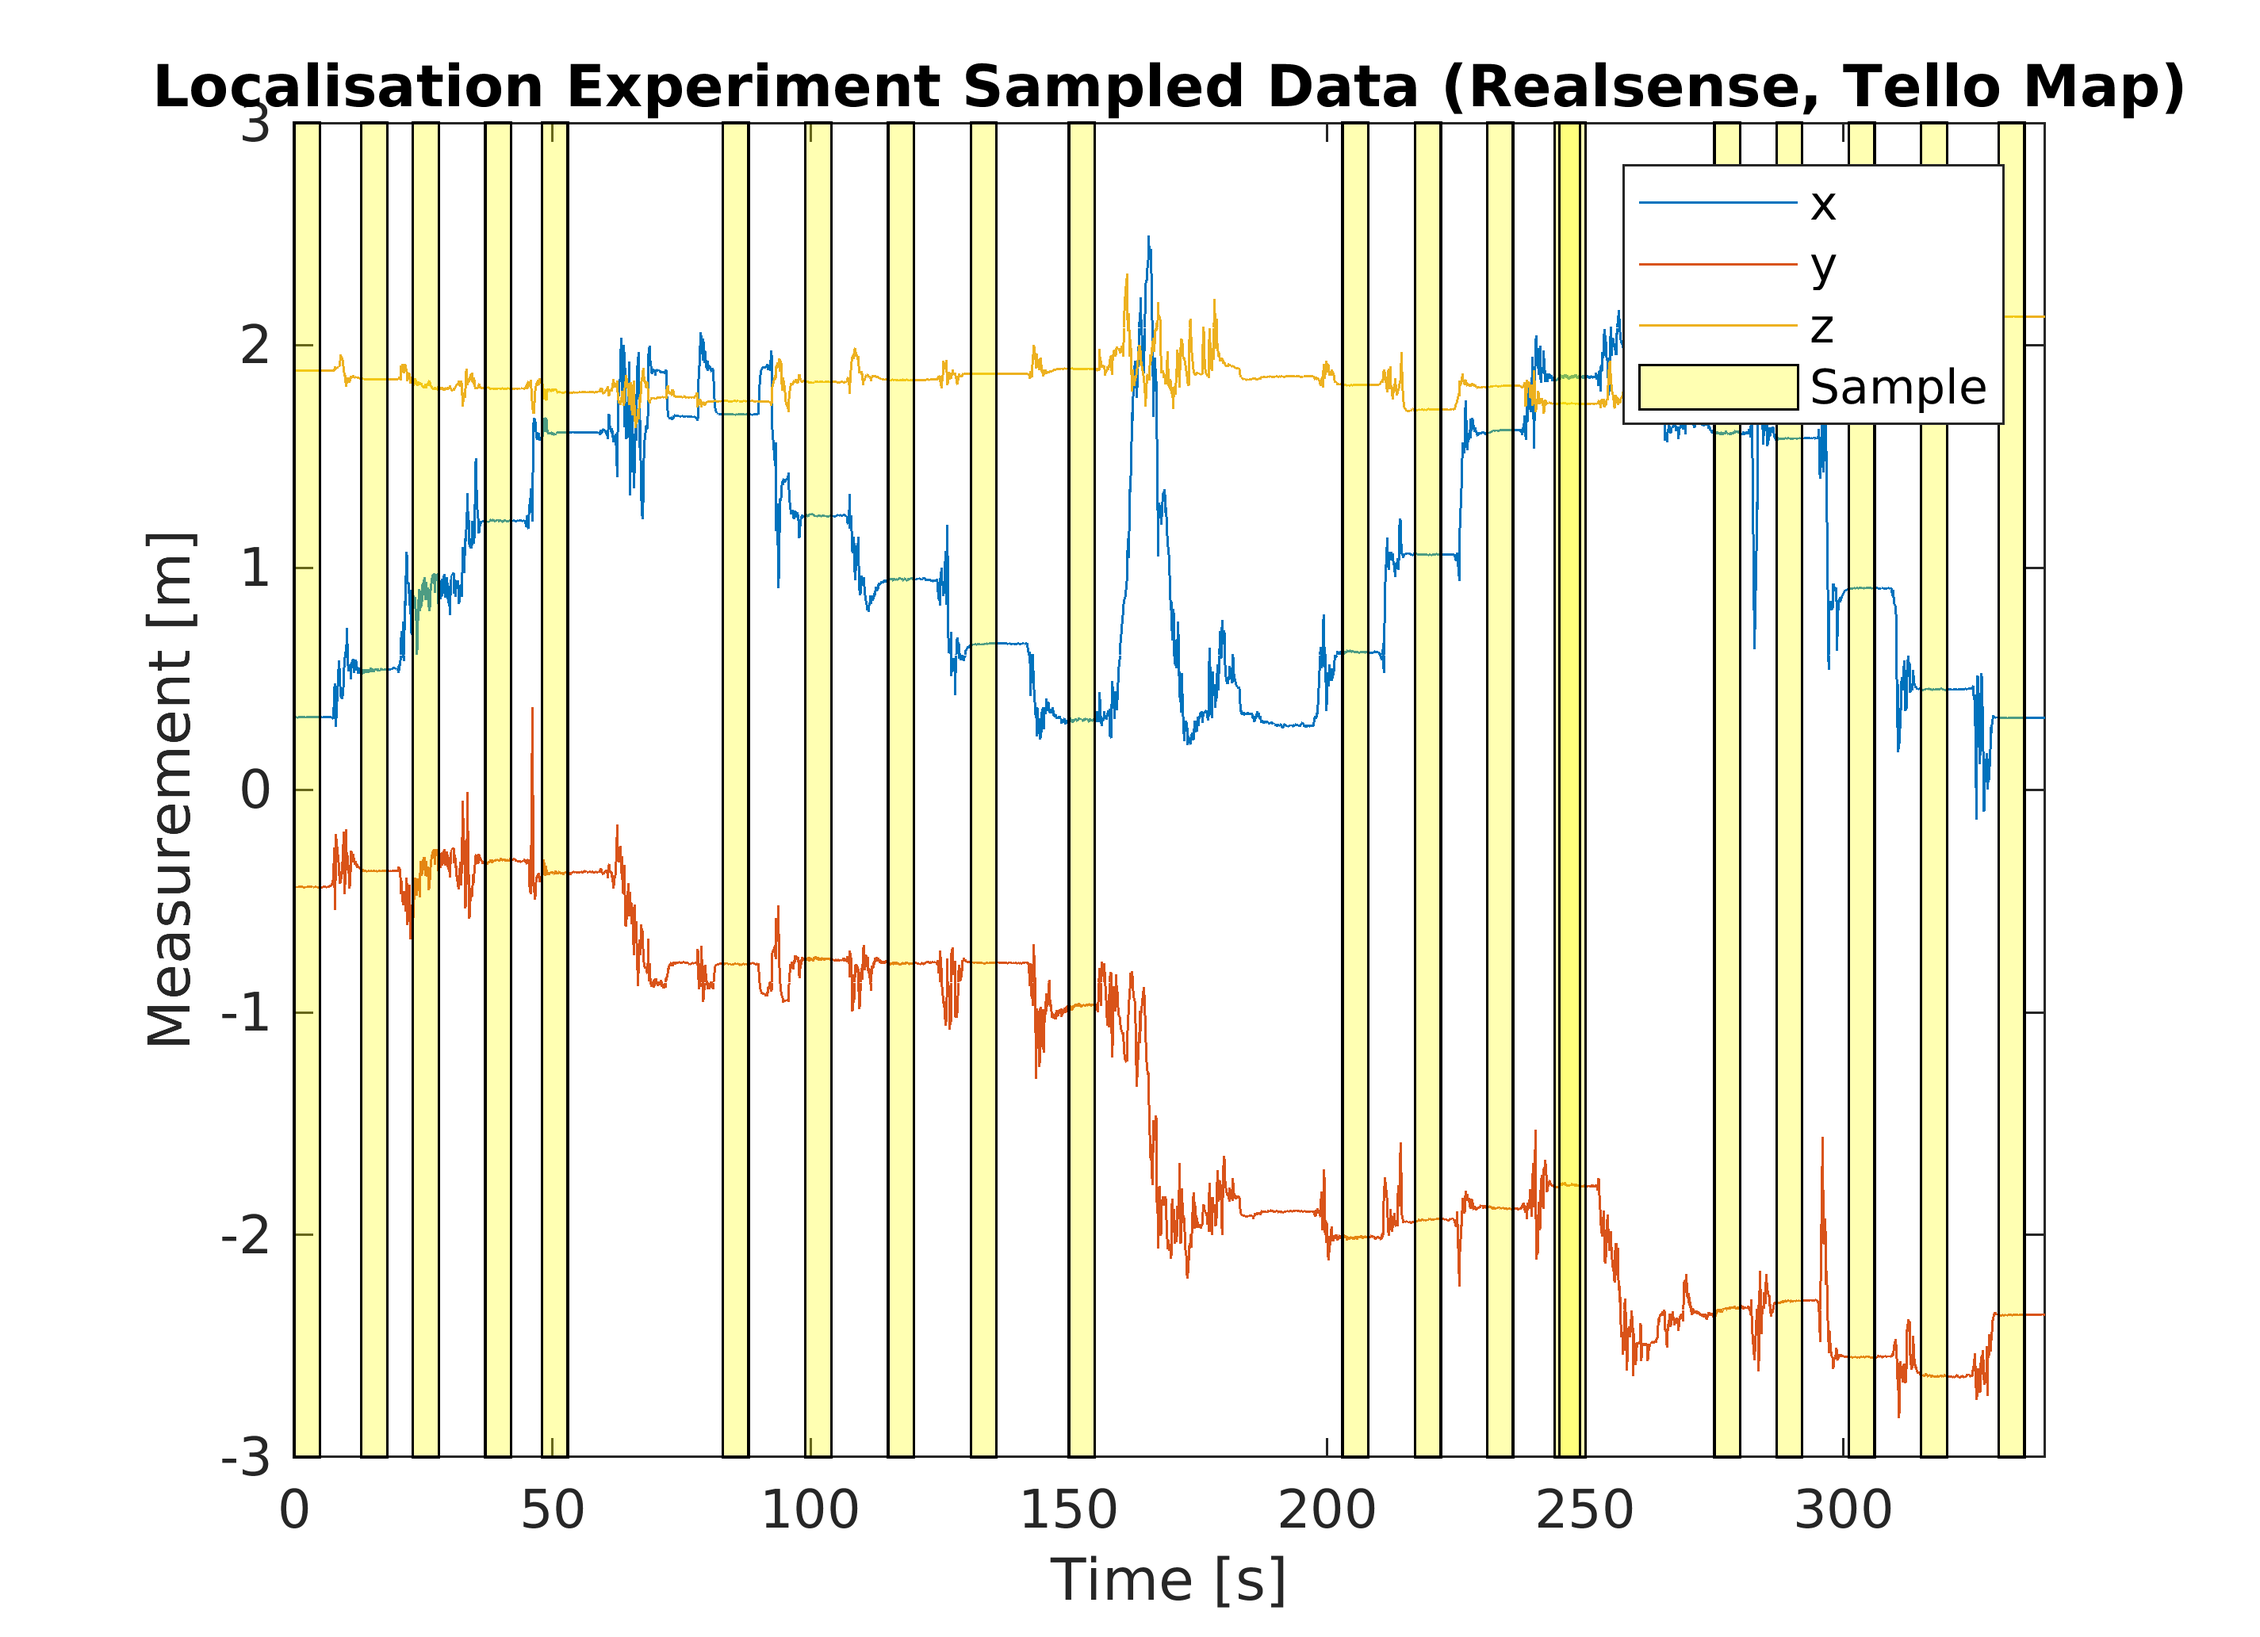
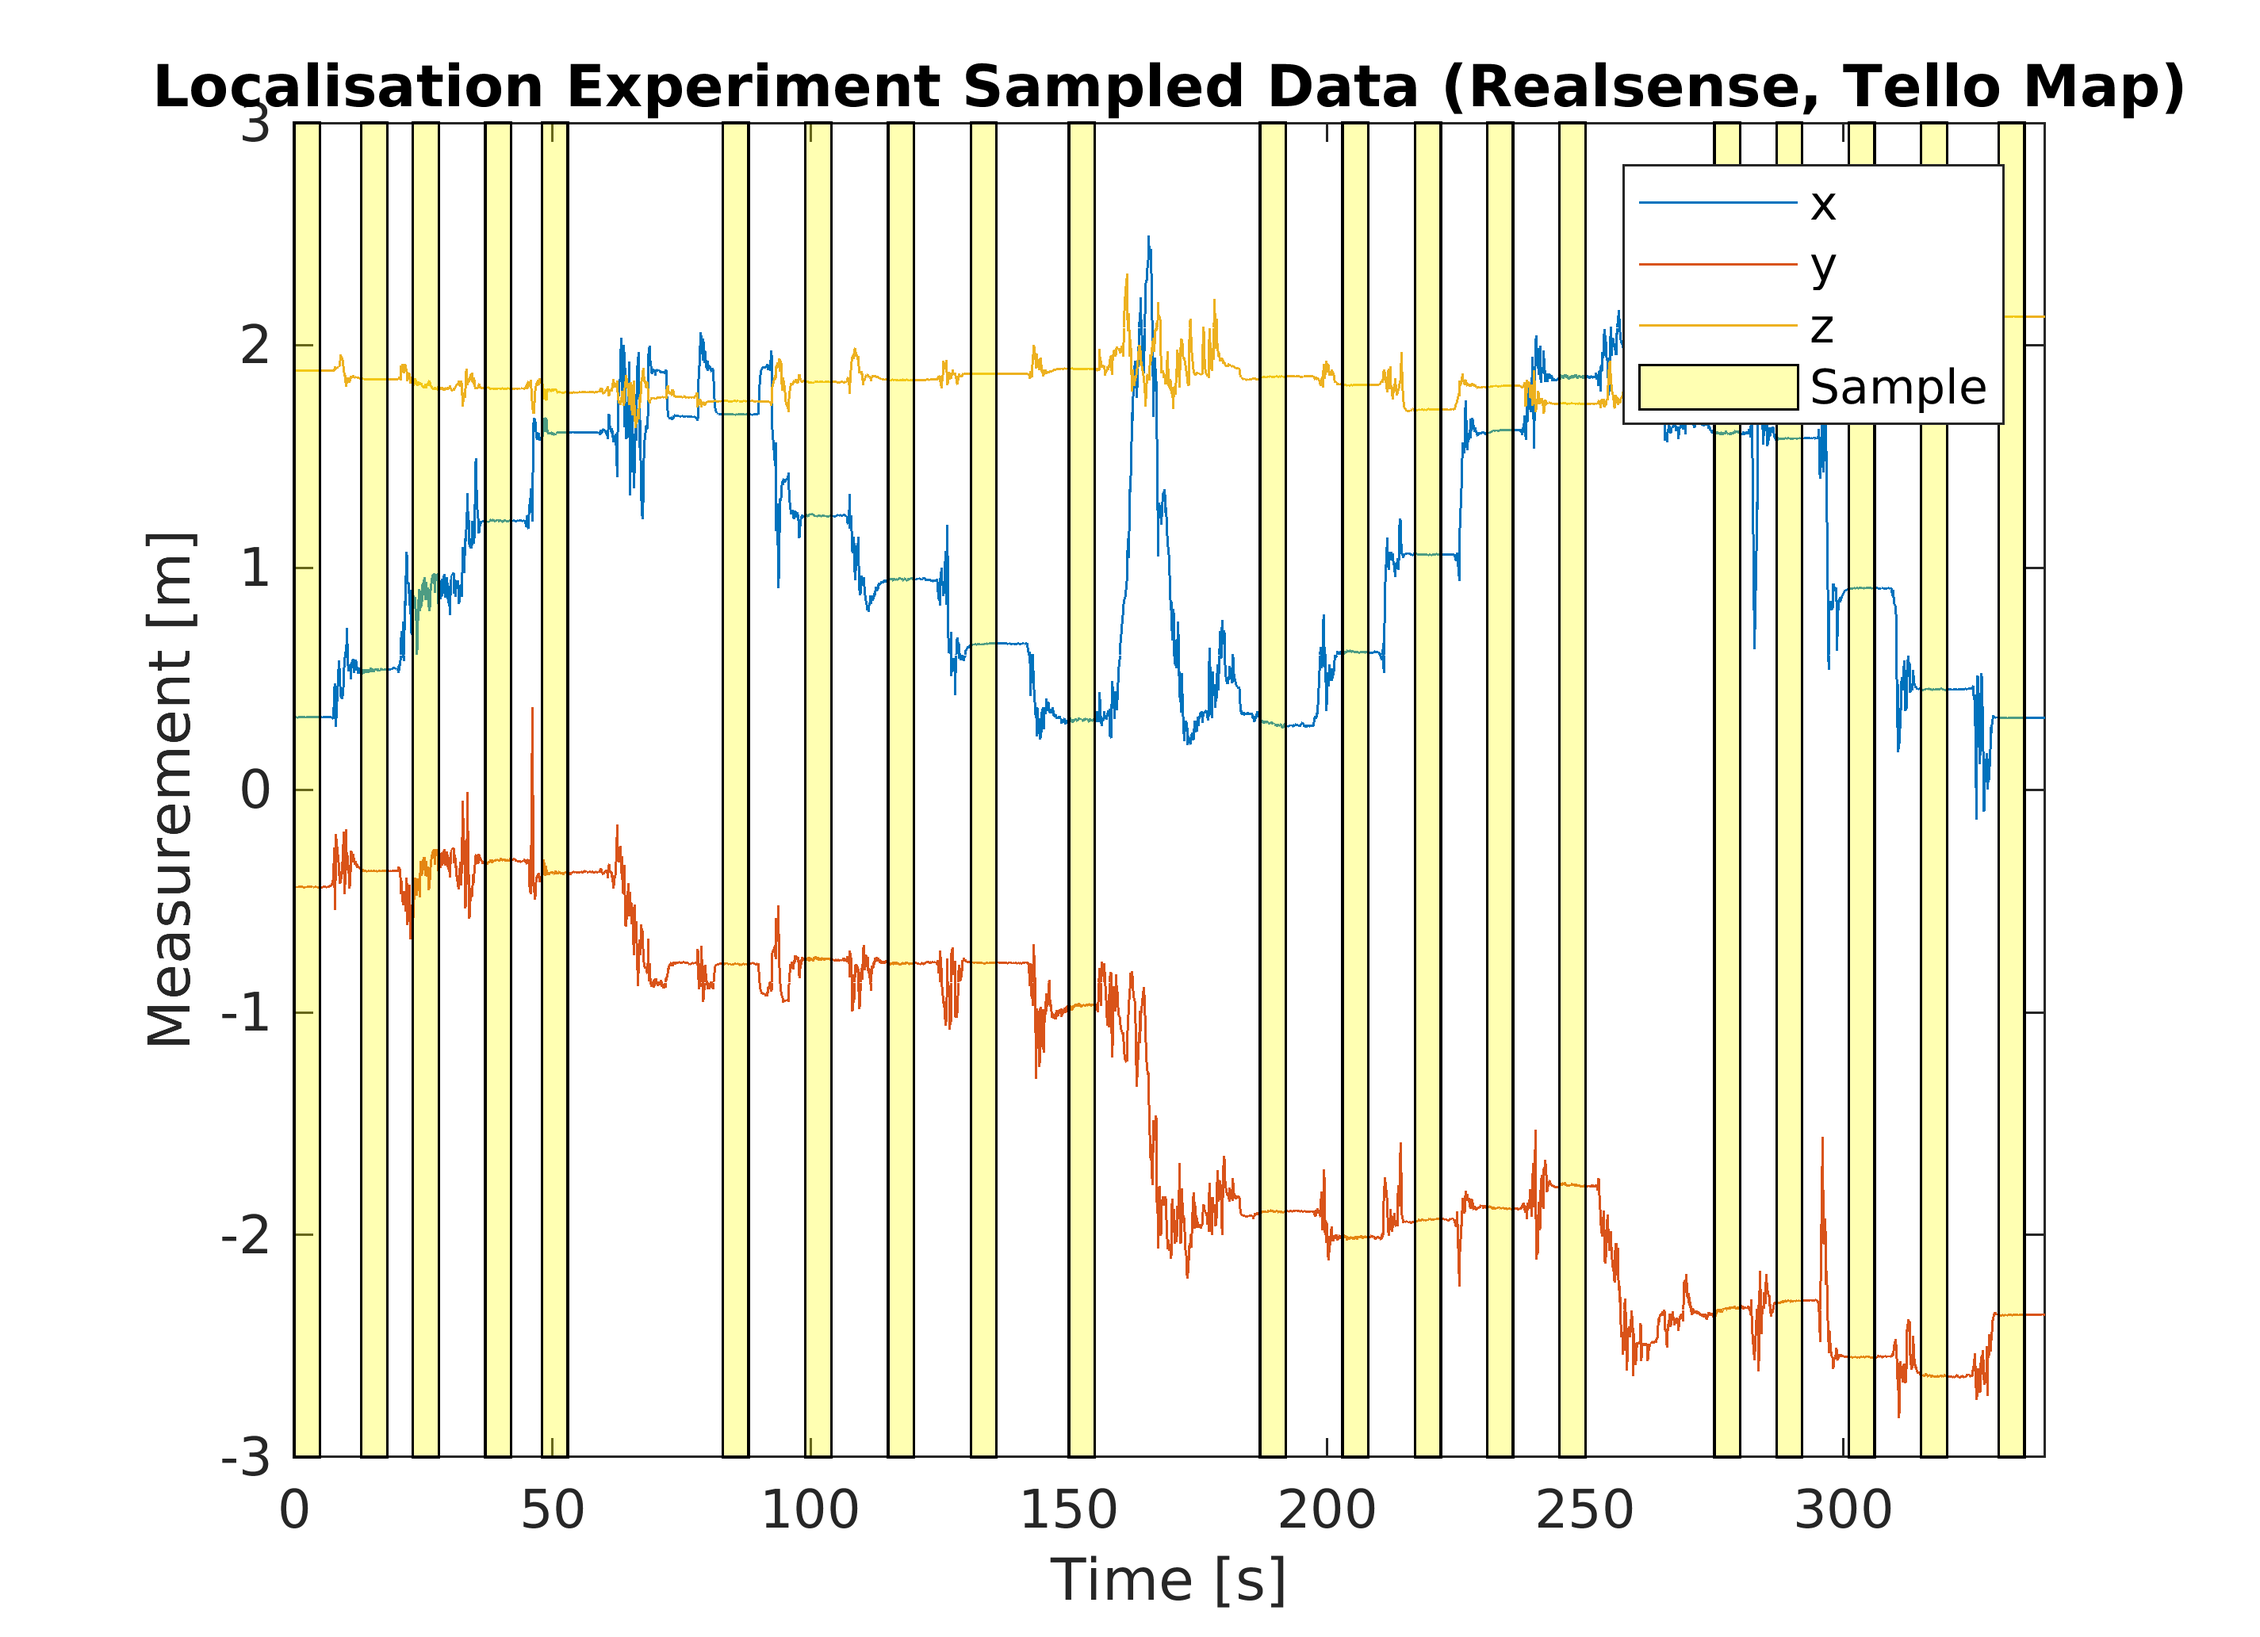
current version

Changed region(s): [[0.5309, 0.062, 0.5933, 0.8988], [0.687, 0.062, 0.7182, 0.8988]]

diff --git a/analyse_structure_extraction.m b/analyse_structure_extraction.m
@@ -1,0 +1,54 @@
+data_first = [
+    [ 25 0 0 ]
+    [ 24 0 1 ]
+    [ 15 0 10]
+    [ 25 0 0 ]
+    [ 25 0 0 ]
+    [ 23 2 0 ]
+    [ 25 0 0 ]
+    [ 24 0 1 ]
+    [ 25 0 0 ]
+    [ 25 0 0 ]
+];
+
+data_second = [
+    [ [22,0,3]  [4,0,0] ]
+    [ [23,0,2]  [4,0,0] ]
+    [ [18,0,7]  [3,0,1] ]
+    [ [14,0,11] [4,0,0] ]
+    [ [23,1,1]  [4,0,0] ]
+    [ [23,0,2]  [4,0,0] ]
+    [ [22,1,2]  [4,0,0] ]
+    [ [21,1,3]  [4,0,0] ]
+    [ [23,0,2]  [4,0,0] ]
+    [ [21,0,4]  [4,0,0] ]
+];
+
+data_third = [ 
+    [ [23,0,2] [4,0,0] [1,0,0] ]
+    [ [21,0,4] [2,0,2] [1,0,0] ]
+    [ [21,0,4] [4,0,0] [1,0,0] ]
+    [ [22,0,3] [2,0,2] [1,0,0] ]
+    [ [22,0,3] [3,0,1] [1,0,0]]
+    [ [21,0,4] [3,0,1] [0,1,0] ]
+    [ [20,0,5] [2,2,0] [1,0,0] ]
+    [ [22,0,3] [4,0,0] [1,0,0] ]
+    [ [22,0,3] [3,0,1] [1,0,0] ]
+    [ [20,0,5] [2,0,2] [1,0,0] ]
+];
+
+% TP / (TP+FN)
+recall_first = mean(data_first(:y,1) ./ (data_first(:,1) + data_first(:,3)) );
+recall_second = mean((data_second(:,1) + data_second(:,4)) ./ ...
+    (data_second(:,1) + data_second(:,4) + data_second(:,3) + data_second(:,6)));
+recall_third = mean((data_third(:,1) + data_third(:,4) + data_third(:,7)) ./ ...
+    (data_third(:,1) + data_third(:,4) + data_third(:,7) + ...
+    data_third(:,3) + data_third(:,6) + data_third(:,9)));
+
+% TP / (TP+FP)
+prec_first = mean(data_first(:,1) ./  (data_first(:,1) + data_first(:,2)));
+prec_second = mean((data_second(:,1) + data_second(:,4)) ./  ...
+    (data_second(:,1) + data_second(:,2) + data_second(:,4) + data_second(:,5)));
+prec_third = mean((data_third(:,1) + data_third(:,4) + data_third(:,7)) ./  ...
+    (data_third(:,1) + data_third(:,2) + data_third(:,4) + data_third(:,5) + ...
+    data_third(:,7) + data_third(:,8)));

diff --git a/mixed_map_localisation_comparision.m b/mixed_map_localisation_comparision.m
@@ -44,6 +44,7 @@ for i = 1:length(time_table)
 end
 
 mean_error_tello = mean(errors);
+std_error_tello = std(errors);
 
 %% Tello Plot 1.0
 figure;
@@ -93,7 +94,7 @@ time_table_realsense = [
     7 ,  99, 104, 1.176, -1.0, 1.864;
     6 ,  83,  88, 1.526, -1.0, 1.864;
     
-    11, 244, 249, 0.126, -2.0, 1.864;
+    11, 187, 192, 0.126, -2.0, 1.864;
     12, 203, 208, 0.476, -2.0, 1.864;
     13, 217, 222, 0.826, -2.0, 1.864;
     14, 231, 236, 1.176, -2.0, 1.864;
@@ -115,6 +116,7 @@ for i = 1:length(time_table_realsense)
 end
 
 mean_error_realsense = mean(errors);
+std_error_realsense = std(errors);
 
 %% Realsense Plot 1.0
 figure;
